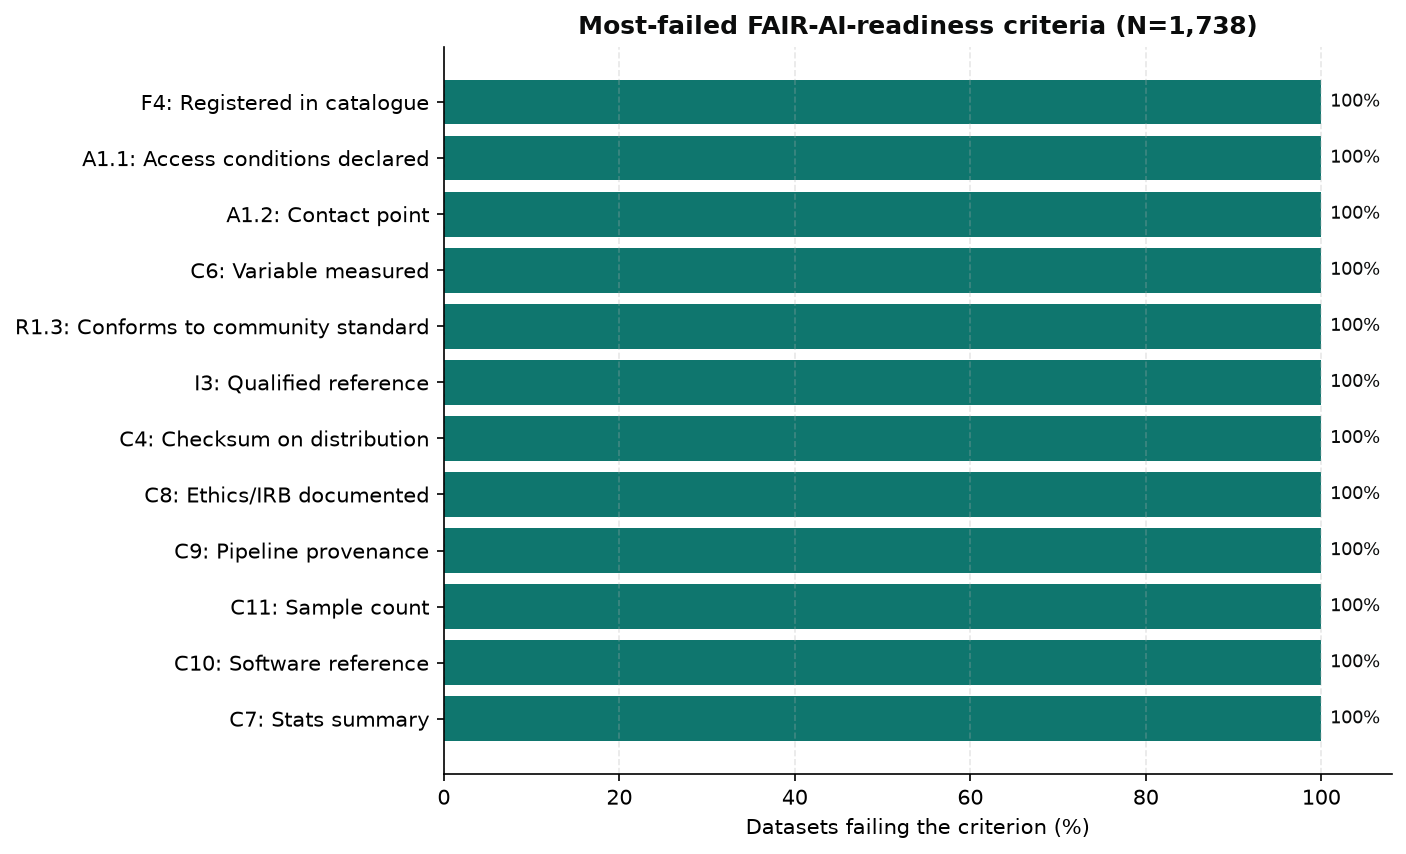
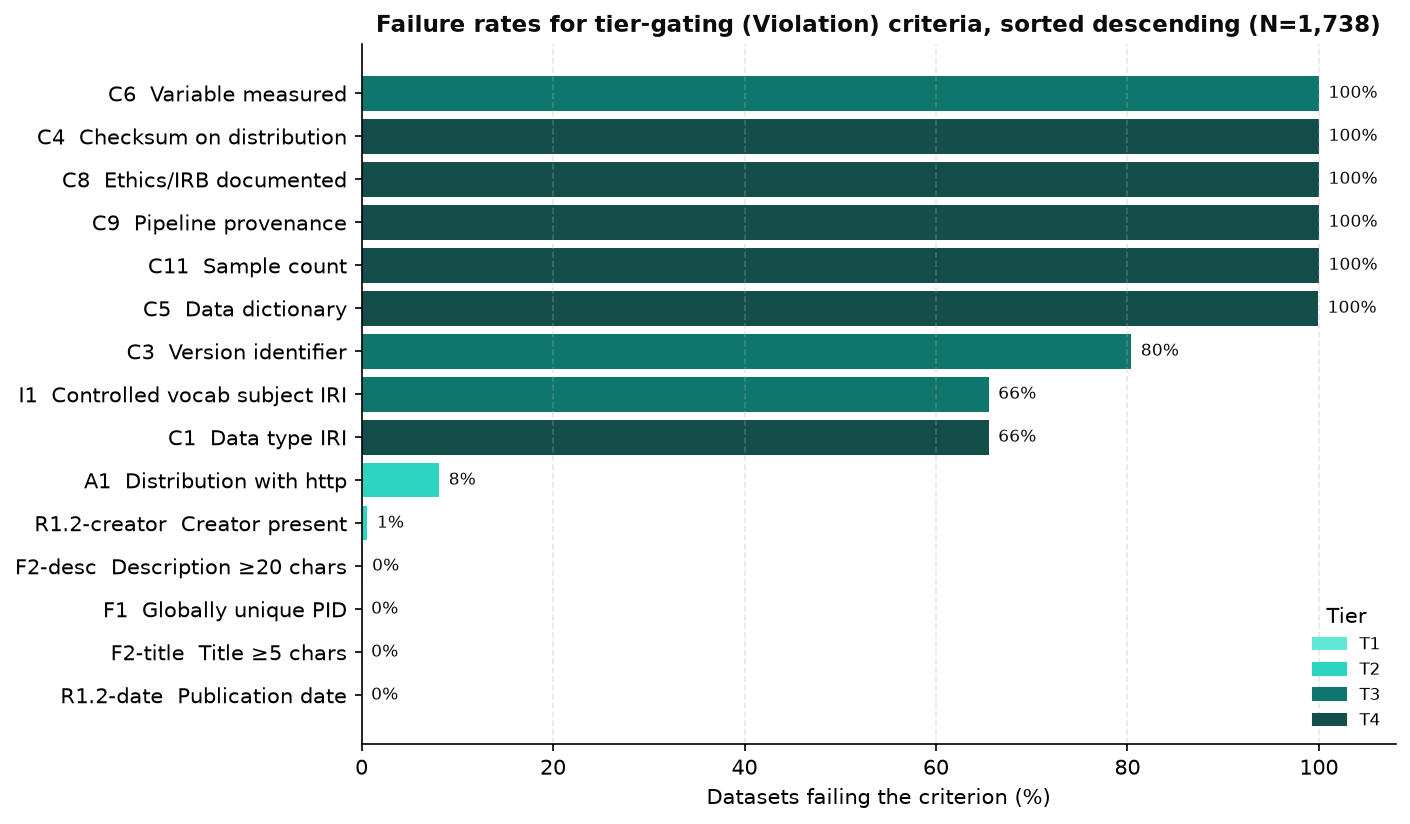
Trim tautological 100% list; fig2 = tier-gating criteria sorted descending

diff --git a/paper/report.md b/paper/report.md
@@ -134,20 +134,11 @@ Tiers are cumulative: a dataset passes Tier N only if it also passes all lower t
 
 The headline finding is the cliff between Tier 2 and Tier 3. Foundational metadata (persistent identifier, title, description, creator, publication date, download URL) is nearly universal. The machine-readable structural and provenance layer that AI pipelines require is universally absent.
 
-### Per-criterion universal failures
+### Per-criterion failure rates
 
-The following criteria fail at 100% across all 1,738 datasets and all three repositories, without exception:
+The failure is concentrated, not diffuse. The criteria that make a dataset machine-interpretable and auditable (a variable schema, integrity checksums, pipeline provenance, a data dictionary, a sample count, and ethics documentation) are absent from effectively every record, while findability criteria are satisfied almost everywhere. Table 3 and Figure 2 give the tier-gating (Violation) criteria, sorted descending: the interoperability and AI-readiness criteria cluster at 100%, and the findability criteria sit at 0%.
 
-- **C6: Machine-readable schema** (`schema:variableMeasured`): 100% absent. No repository exposes even a single variable description in its catalogue-level API response. This single criterion is the cause of the entire corpus failing at Tier 3.
-- **C4: Integrity checksum** (`spdx:checksum` or `schema:sha256`): 100% absent.
-- **C8: Ethics/IRB documentation** (`schema:conditionsOfAccess` with ethics keywords): 100% absent.
-- **C9: Pipeline provenance** (`prov:wasGeneratedBy`): 100% absent.
-- **C11: Sample count** (`schema:numberOfItems`): 100% absent.
-- **C5: Data dictionary** (`schema:hasPart`): 99.9% absent (1,737/1,738; one Dryad record carries a `schema:hasPart` reference).
-
-Additional universal failures (Warning severity, do not gate tier conformance): catalogue registration (F4, 100%), access conditions (A1.1, 100%), contact point (A1.2, 100%), community standard reference (R1.3 and I3, 100%), software reference (C10, 100%), statistical summary (C7, 100%), de-identification statement (C13, 100%).
-
-**Selected failure rates for Violation-severity criteria, sorted descending:**
+**Table 3. Failure rates for tier-gating (Violation) criteria, sorted descending.**
 
 | Criterion | Tier | Failure rate | n fail / 1,738 | Description |
 |---|---|---|---|---|
@@ -167,7 +158,7 @@ Additional universal failures (Warning severity, do not gate tier conformance): 
 | **F2-title** | T1 | **0.0%** | 0 | Title >= 5 chars |
 | **R1.2-date** | T2 | **0.0%** | 0 | Publication date |
 
-![Per-criterion failure rates](../results_deep/fig2_criterion_failure_rates.png)
+![Failure rates for tier-gating criteria, sorted descending](../results_deep/fig2_criterion_failure_rates.png)
 
 The practical implication is unambiguous: the FAIR-to-AI-ready gap is not a findability problem. F1 (globally unique PID) fails for zero records; F2-title and R1.2-date each fail at 0%. The failure is entirely located at the interoperability and provenance layer, and it is structural, not incidental. None of these concepts are supported fields in the catalogue-level API responses of any of the three repositories evaluated.
 